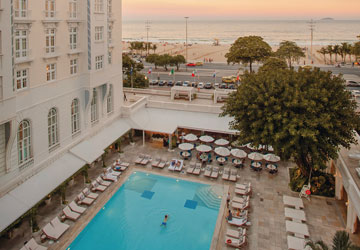
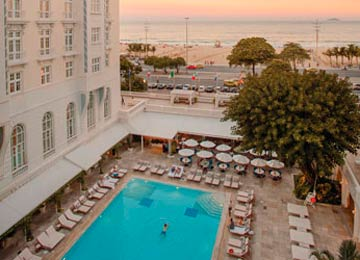
fotos prontas

diff --git a/royal-master/index.html b/royal-master/index.html
@@ -340,7 +340,7 @@
                     <div class="col-lg-4 col-md-6">
                         <div class="single-recent-blog-post">
                             <div class="thumb">
-                                <img class="img-fluid" src="image/blog/blog-1.jpg" alt="post">
+                                <img class="img-fluid" src="image/blog/piscina_copacabana-vista.jpg" alt="post">
                             </div>
                             <div class="details">
                                 <div class="tags">
@@ -372,7 +372,7 @@
                     <div class="col-lg-4 col-md-6">
                         <div class="single-recent-blog-post">
                             <div class="thumb">
-                                <img class="img-fluid" src="image/blog/blog-3.jpg" alt="post">
+                                <img class="img-fluid" src="image/blog/piscina-copacabana-palace-verde.jpg" alt="post">
                             </div>
                             <div class="details">
                                 <div class="tags">
